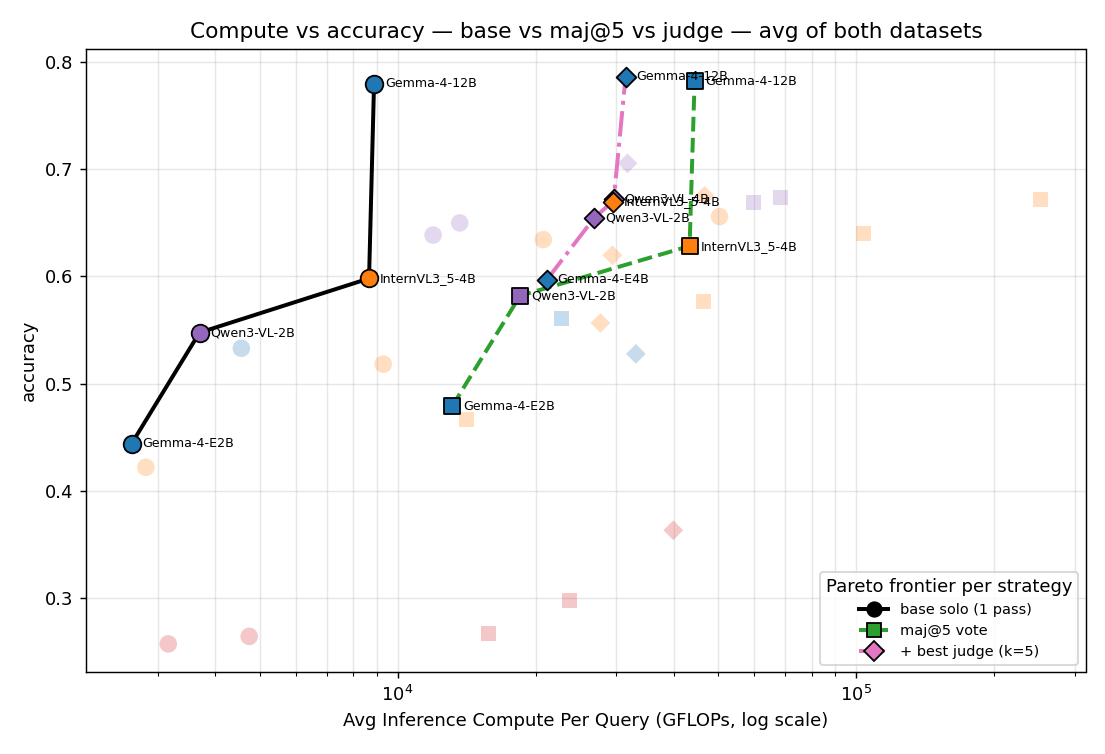
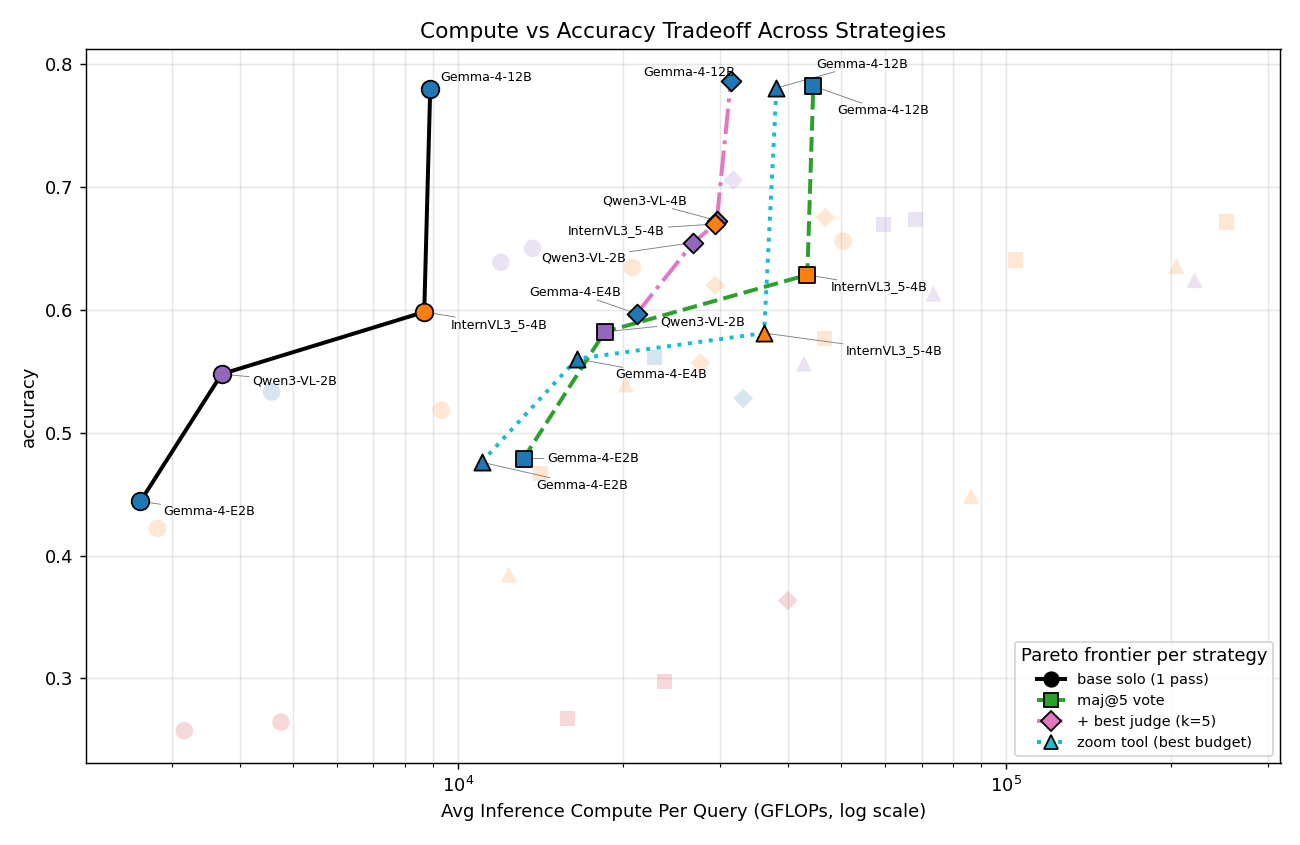
add zoom compute curves

diff --git a/report/index.html b/report/index.html
@@ -223,6 +223,12 @@ By far, the best way to increase accuracy is by using a VLM judge.
     <figcaption class='note figcap'>Each point is one solver-judge pair, averaged across CharXiv and CountBenchQA when both datasets have that pair. Static-grid predicted gain tracks the actual gain from judge-gated rejection sampling well: Pearson r = 0.93.</figcaption>
 </figure>
 
+<h3>Compute Tradeoffs</h3>
+<figure class=plot-wrap>
+    <img src='figures/tradeoff/avg_combined_tradeoff.png' alt='Accuracy versus average inference compute per query for each strategy'>
+    <figcaption class='note figcap'>Accuracy vs. average inference compute per query (GFLOPs, log scale), averaged across CharXiv and CountBenchQA. Each strategy has its own Pareto frontier; faded markers are off-frontier models. Majority vote and the VLM judge buy accuracy for modest extra compute, while the zoom tool lands far to the right — its multi-turn rollouts cost several× more compute for little to no accuracy gain.</figcaption>
+</figure>
+
 <h2>Conclusion</h2>
 
 <p class=note>

diff --git a/vlm/combined_tradeoff.py b/vlm/combined_tradeoff.py
@@ -16,11 +16,18 @@ import matplotlib
 matplotlib.use("Agg")
 import matplotlib.pyplot as plt
 from matplotlib.lines import Line2D
+try:
+    from adjustText import adjust_text          # optional: intelligent non-overlapping labels
+except ImportError:
+    adjust_text = None
 
 sys.path.insert(0, os.path.dirname(__file__))
 import build_charxiv_report as R
 import compute_tradeoff as T     # canonical_cost, collect, best_judge, pareto, name
 import maj_tradeoff as MJ        # collect -> {model: [(compute,acc) k=1..5]}
+import vision_flops as VF        # vision-encoder GFLOPs
+
+ZOOM_BUDGETS = [2, 4, 8]         # zoom crop budgets swept; per model we keep the best-accuracy one
 
 DATASETS = ["charxiv", "countbench"]
 FIGDIR = "report/figures/tradeoff"
@@ -36,18 +43,46 @@ def n_queries(ds):
     return None
 
 
+def collect_zoom(ds, budgets=ZOOM_BUDGETS):
+    """model -> (whole-dataset GFLOPs, accuracy) for the agentic zoom-tool run, keeping for each
+    model the budget (c=2/4/8) that gave the BEST accuracy -- the budgets trade off differently
+    per model, so this is an oracle-over-budgets pick of the highest-accuracy run.
+
+    LLM side is the chosen run's real measured solver_gflops (a single multi-turn rollout, so all
+    crop image-tokens are already counted). Vision side adds the ViT encode of the original image
+    PLUS one encode per zoom crop (avg_crops of them), approximating each crop's patch count by the
+    original image's -- the extra vision cost of *re-looking*, which is the whole point of zoom."""
+    best = {}   # model -> (acc, compute)
+    for c in budgets:
+        for f in glob.glob(f"vlm/result/agentic_vision/{ds}_c{c}/*/metrics.json"):
+            d = json.load(open(f)); md = d.get("metadata", {})
+            m, g, npr = md.get("solver_model"), md.get("solver_gflops"), md.get("n_problems")
+            acc = d.get("accuracy")
+            if not (m and g and npr) or acc is None:
+                continue
+            comp = float(g)
+            if T.INCLUDE_VISION:
+                vt = VF.vision_gflops_total(m, ds, npr)          # one encode of the original image
+                if vt:
+                    comp += vt * (1 + (d.get("avg_crops") or 0))  # + one encode per zoom crop
+            if m not in best or acc > best[m][0]:
+                best[m] = (acc, comp)
+    return {m: (comp, acc) for m, (acc, comp) in best.items()}
+
+
 def collect(ds):
-    """model -> dict(base=(g,a), maj5=(g,a) or None, judge=(g,a) or None).
+    """model -> dict(base, maj5, judge, zoom), each (g,a) or None.
     Compute is normalized to per-query GFLOPs (whole-dataset GFLOPs / n_problems)."""
     _, pipes = T.collect(ds)                 # canonical-priced judge pipelines
     best = T.best_judge(pipes)               # solver -> (gflops, acc, verifier)
     maj = MJ.collect(ds)                      # model -> [(compute, acc), ...] k=1..N
+    zoom = collect_zoom(ds)                   # model -> (gflops, acc) at c=8
     nq = n_queries(ds) or 1                   # -> per-query average compute
     out = {}
     for m, curve in maj.items():
         base = curve[0]                      # (C[m], maj@1)
         maj5 = curve[4] if len(curve) >= 5 else curve[-1]
-        rec = dict(base=base, maj5=maj5, judge=None)
+        rec = dict(base=base, maj5=maj5, judge=None, zoom=zoom.get(m))
         if m in best:
             rec["judge"] = (best[m][0], best[m][1])
         for k, v in rec.items():             # whole-dataset GFLOPs -> per-query
@@ -64,12 +99,13 @@ STRAT = [   # key,     marker, size, frontier color, style, legend label
     ("base",  "o", 95, "#000000", "-",  "base solo (1 pass)"),
     ("maj5",  "s", 70, "#2ca02c", "--", "maj@5 vote"),
     ("judge", "D", 60, "#e377c2", "-.", "+ best judge (k=5)"),
+    ("zoom",  "^", 80, "#17becf", ":",  "zoom tool (best budget)"),
 ]
-FADED, FULL = 0.25, 1.0
+FADED, FULL = 0.18, 1.0
 
 
 def render(ds, data, title=None):
-    fig, ax = plt.subplots(figsize=(8.5, 5.8))
+    fig, ax = plt.subplots(figsize=(10, 6.5))
     order = sorted(data, key=lambda m: (R.FAM_ORDER.get(R.family(m), 4), R.size(m)))
 
     # which models sit on each strategy's Pareto frontier
@@ -78,7 +114,10 @@ def render(ds, data, title=None):
         pts = [(*data[m][key], m) for m in order if data[m][key] is not None]
         frontier[key] = [p[-1] for p in T.pareto(pts)]
 
-    # scatter every point: on-frontier -> full opacity, else faded into the background
+    # scatter every point: on-frontier -> full opacity, else faded into the background.
+    # collect all marker coords (to repel labels away from every point) and the on-frontier
+    # label texts (placed non-overlappingly by adjust_text at the end).
+    pxs, pys, texts, txs, tys = [], [], [], [], []   # txs/tys = the marker each label anchors to
     for key, mk, sz, *_ in STRAT:
         onfr = set(frontier[key])
         for m in order:
@@ -89,22 +128,42 @@ def render(ds, data, title=None):
             ax.scatter(v[0], v[1], s=sz, marker=mk, alpha=FULL if on else FADED,
                        zorder=5 if on else 3, color=T.fam_color(m),
                        edgecolor="k" if on else "none")
+            pxs.append(v[0]); pys.append(v[1])
             if on:                        # label only the models on this frontier
-                ax.annotate(name(m), v, fontsize=7, xytext=(6, 0), va="center",
-                            textcoords="offset points", zorder=6)
+                # judge labels start on the LEFT of their marker (that side is less crowded);
+                # adjust_text refines from there, leader lines re-anchored to the marker below.
+                if key == "judge":
+                    txt = ax.text(v[0] / 1.15, v[1], name(m), fontsize=7,
+                                  ha="right", va="center", zorder=6)
+                else:
+                    txt = ax.text(v[0], v[1], name(m), fontsize=7, zorder=6)
+                texts.append(txt); txs.append(v[0]); tys.append(v[1])
 
-    # draw the three frontier lines
+    # draw the frontier lines, and densify each into points so the labels treat the LINES as
+    # obstacles too (not just the markers) -- sampled in log-x space to match the axis.
+    import numpy as np
     handles = []
     for key, mk, sz, col, ls, lab in STRAT:
         line = [data[m][key] for m in frontier[key]]
         ax.plot([p[0] for p in line], [p[1] for p in line], ls, color=col, lw=2.2, zorder=4)
         handles.append(Line2D([], [], marker=mk, color=col, ls=ls, mec="k", ms=8, lw=2.2, label=lab))
+        for (x0, y0), (x1, y1) in zip(line, line[1:]):     # sample along each segment
+            t = np.linspace(0, 1, 12)
+            pxs.extend(10 ** (np.log10(x0) + t * (np.log10(x1) - np.log10(x0))))
+            pys.extend(y0 + t * (y1 - y0))
     ax.legend(handles=handles, fontsize=8, loc="lower right", title="Pareto frontier per strategy")
     ax.set_xscale("log")
     ax.set_xlabel("Avg Inference Compute Per Query (GFLOPs, log scale)")
     ax.set_ylabel("accuracy")
-    ax.set_title(title or f"Compute vs accuracy — base vs maj@5 vs judge — {ds}")
+    ax.set_title(title or "Compute vs Accuracy Tradeoff Across Strategies")
     ax.grid(alpha=0.3, which="both")
+
+    # nudge the labels apart so nothing overlaps the markers or each other; thin leader lines
+    # connect a moved label back to its point.
+    if adjust_text and texts:
+        adjust_text(texts, x=pxs, y=pys, target_x=txs, target_y=tys, ax=ax,
+                    expand=(1.3, 1.5), force_text=(0.4, 0.6), force_static=(0.2, 0.3),
+                    arrowprops=dict(arrowstyle="-", color="0.5", lw=0.5))
     fig.tight_layout()
     out = f"{FIGDIR}/{ds}_combined_tradeoff.png"
     fig.savefig(out, dpi=130); plt.close(fig)
@@ -117,7 +176,7 @@ def average(per_ds):
     avg = {}
     for m in common:
         rec = {}
-        for k in ("base", "maj5", "judge"):
+        for k, *_ in STRAT:
             vals = [per_ds[d][m][k] for d in dss]
             if any(v is None for v in vals):
                 rec[k] = None
@@ -138,7 +197,7 @@ def main():
         print(f"  -> wrote {render(ds, data)}")
     if len(per_ds) == len(DATASETS):
         avg = average(per_ds)
-        out = render("avg", avg, title="Compute vs accuracy — base vs maj@5 vs judge — avg of both datasets")
+        out = render("avg", avg, title="Compute vs Accuracy Tradeoff Across Strategies")
         print(f"  -> wrote {out}")
 
 
